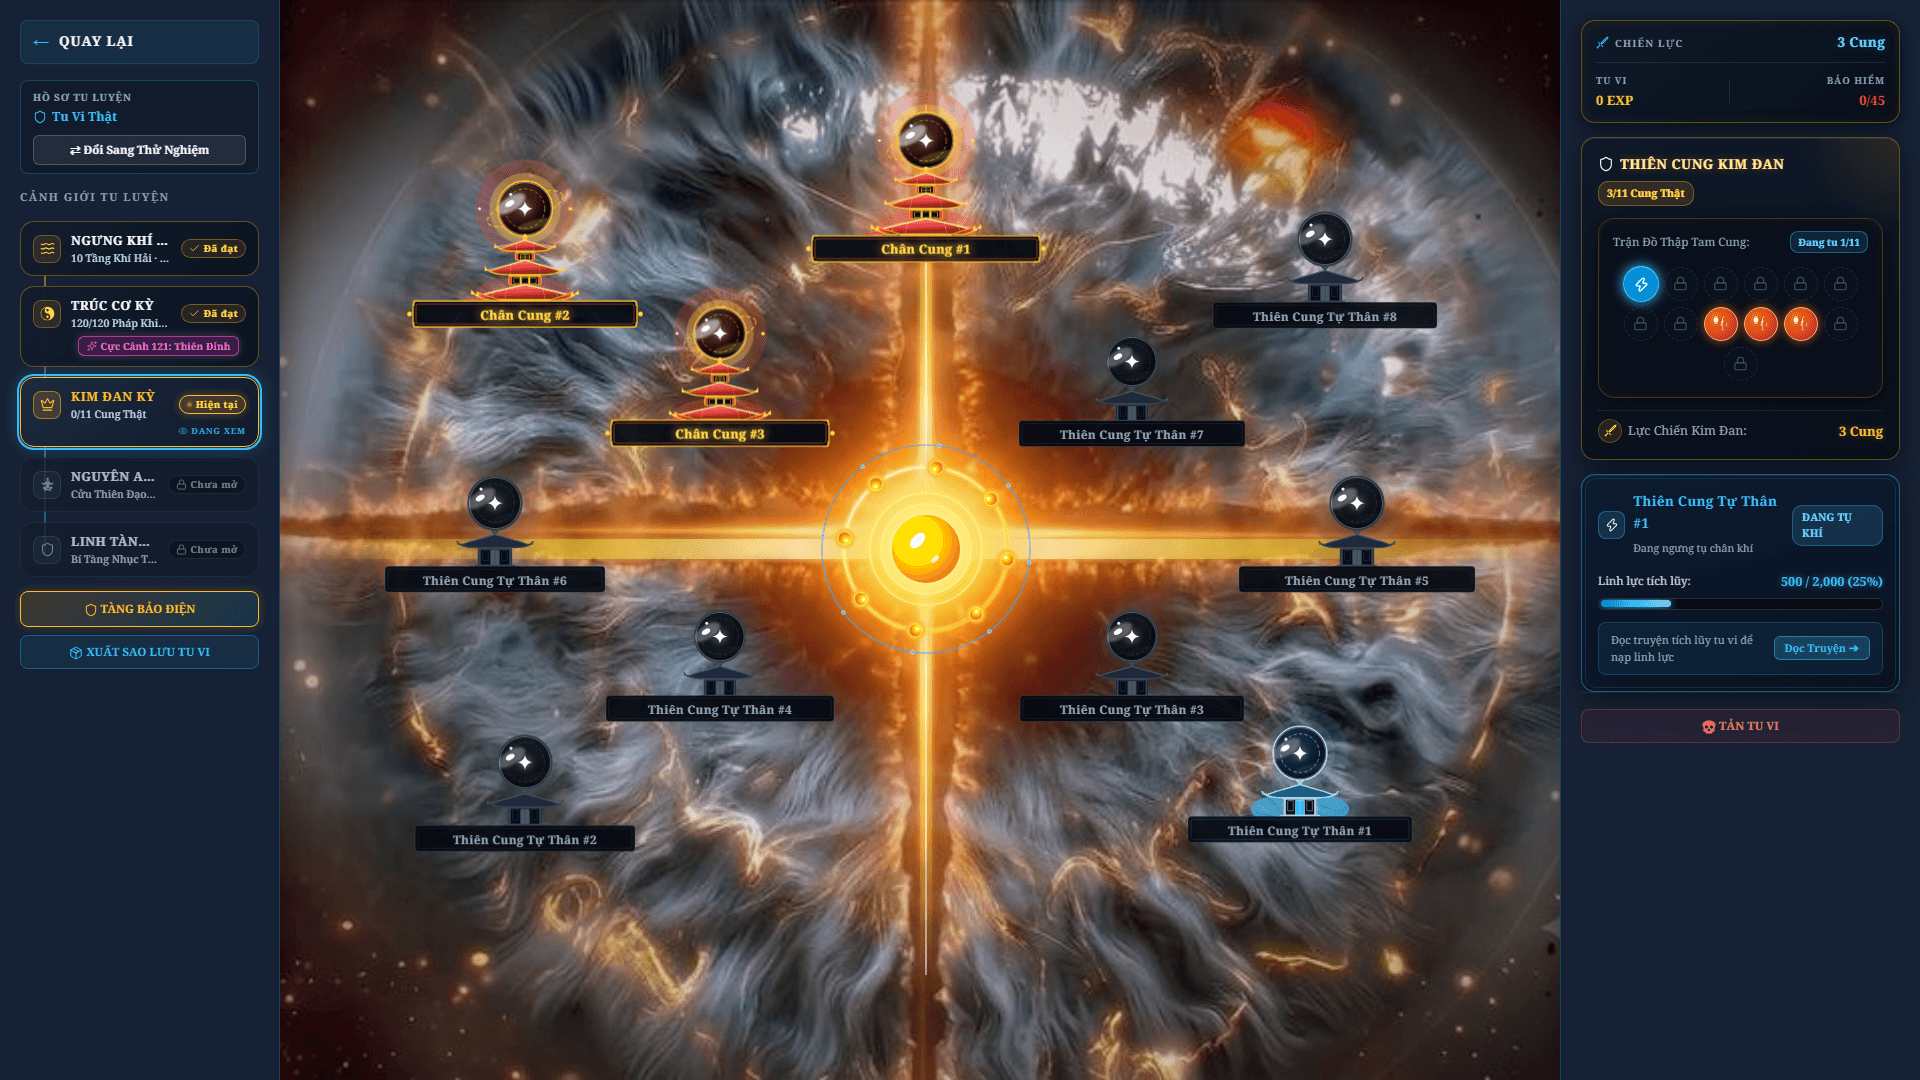
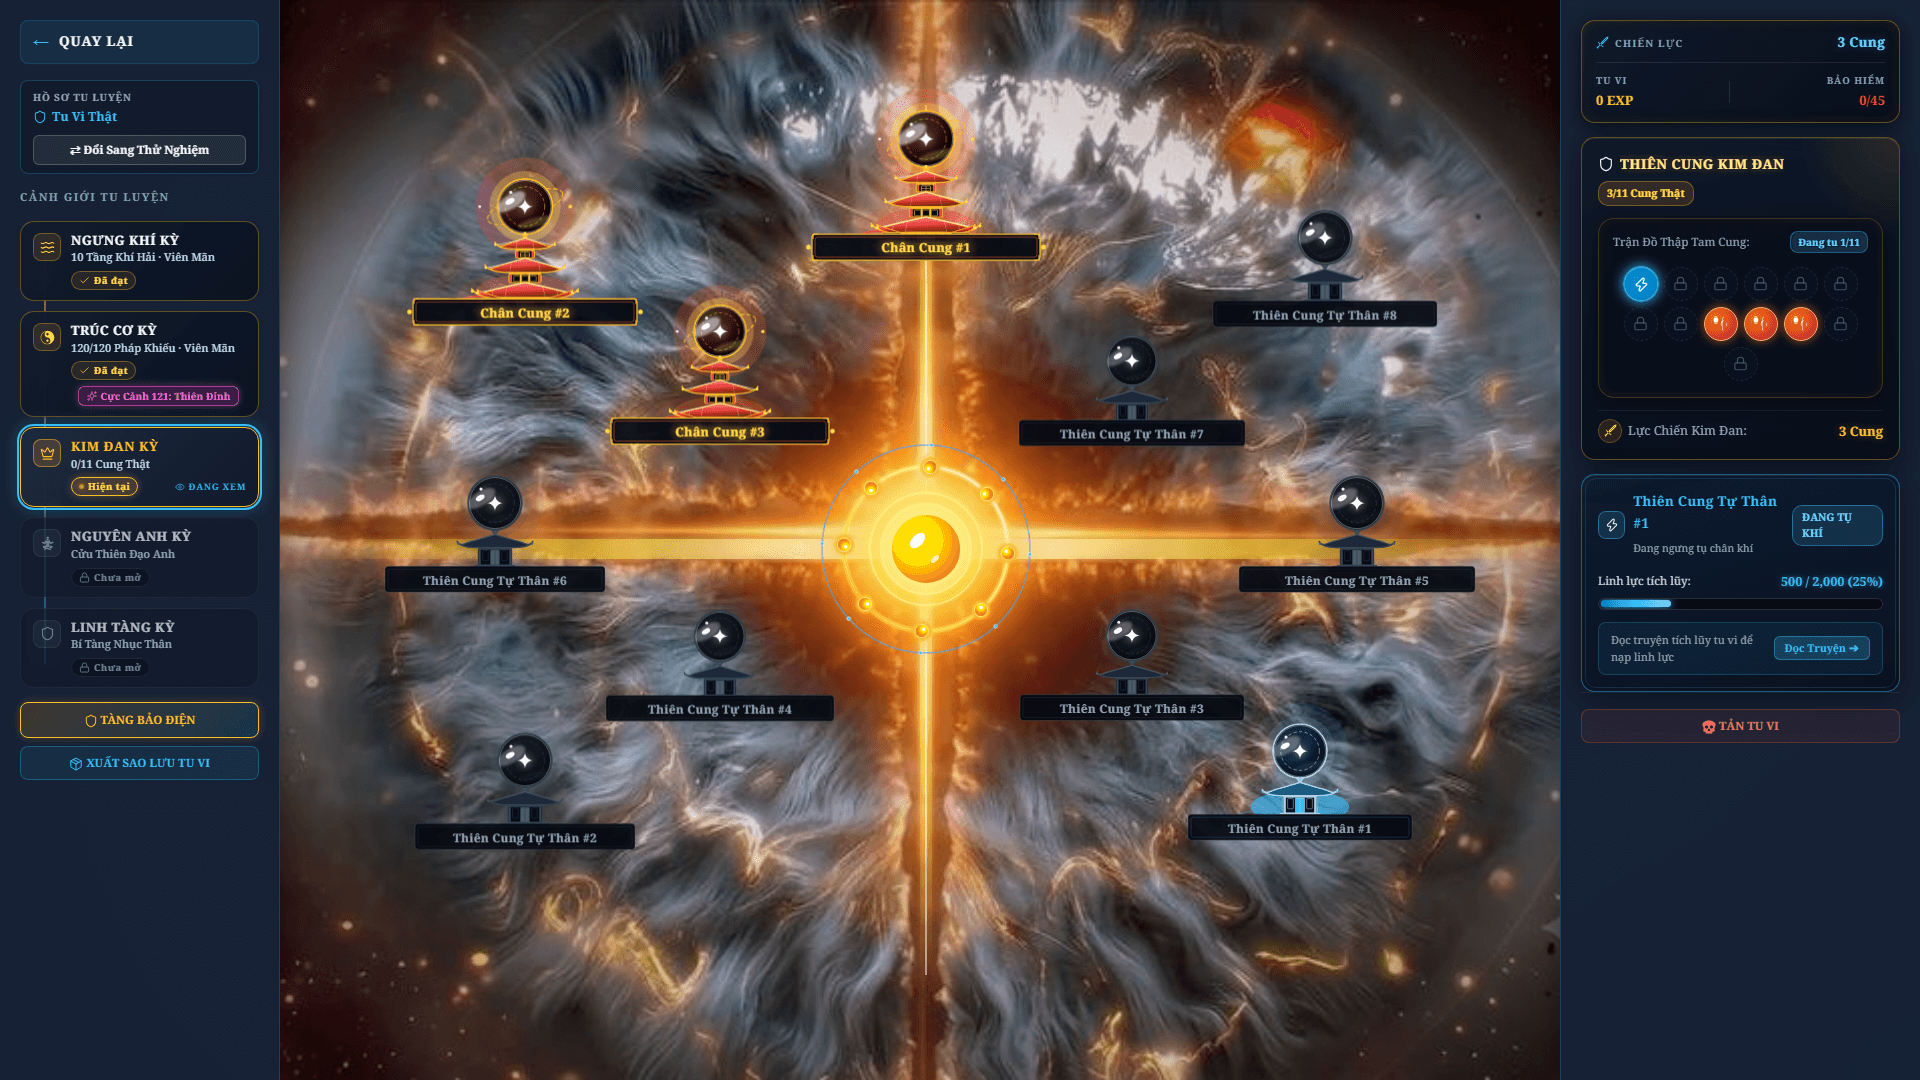
fix(cultivation): stepper cards never truncate realm names

diff --git a/src/components/cultivation/RealmTimeline.jsx b/src/components/cultivation/RealmTimeline.jsx
@@ -136,21 +136,32 @@ export default function RealmTimeline() {
                   {isCompleted ? details.completedText : isCurrent ? details.currentText : details.lockedText}
                 </div>
               </div>
+            </div>
+
+            {/* Status row below title: Left = status badge, Right = viewing tag */}
+            <div className="stepper-status-row">
               <div className="stepper-badge-wrap">
                 {isCurrent ? (
-                  <span className="stepper-badge badge-current">
+                  <span className="stepper-badge badge-current" aria-label="Cảnh giới hiện tại">
                     <span className="pulsing-glow-dot" /> Hiện tại
                   </span>
                 ) : isCompleted ? (
-                  <span className="stepper-badge badge-completed">
+                  <span className="stepper-badge badge-completed" aria-label="Đã hoàn thành">
                     <Icon name="check" size={11} /> Đã đạt
                   </span>
                 ) : (
-                  <span className="stepper-badge badge-locked">
+                  <span className="stepper-badge badge-locked" aria-label="Chưa mở">
                     <Icon name="lock" size={11} /> Chưa mở
                   </span>
                 )}
               </div>
+
+              {/* Viewing Indicator Tag */}
+              {isViewing && (
+                <div className="stepper-viewing-tag" aria-label="Đang xem cảnh giới này">
+                  <Icon name="eye" size={10} /> ĐANG XEM
+                </div>
+              )}
             </div>
 
             {/* Cực Cảnh 121 Badge inside Trúc Cơ */}
@@ -176,12 +187,7 @@ export default function RealmTimeline() {
               </div>
             )}
 
-            {/* Viewing Indicator Tag */}
-            {isViewing && (
-              <div className="stepper-viewing-tag">
-                <Icon name="eye" size={10} /> ĐANG XEM
-              </div>
-            )}
+
           </button>
         );
       })}

diff --git a/src/styles/cultivation-theme.css b/src/styles/cultivation-theme.css
@@ -415,7 +415,7 @@
 
 .stepper-card-header {
   display: flex;
-  align-items: center;
+  align-items: flex-start;
   gap: 10px;
   width: 100%;
 }
@@ -432,6 +432,7 @@
   border: 1px solid rgba(255, 255, 255, 0.1);
   color: #94a3b8;
   transition: all 0.2s ease;
+  margin-top: 1px;
 }
 
 .stepper-card.current .stepper-icon-wrap {
@@ -456,13 +457,14 @@
 
 .stepper-title {
   font-family: var(--font-serif, serif);
-  font-size: 12.5px;
+  font-size: 13px;
   font-weight: 800;
   letter-spacing: 0.5px;
-  white-space: nowrap;
-  overflow: hidden;
-  text-overflow: ellipsis;
+  white-space: normal;
+  overflow: visible;
+  line-height: 1.25;
   color: var(--text-main);
+  word-break: break-word;
 }
 
 .stepper-card.current .stepper-title {
@@ -470,11 +472,26 @@
 }
 
 .stepper-sub {
-  font-size: 10.5px;
+  font-size: 11px;
   color: var(--text-sub);
-  white-space: nowrap;
+  white-space: normal;
+  line-height: 1.35;
+  word-break: break-word;
+  display: -webkit-box;
+  -webkit-line-clamp: 2;
+  line-clamp: 2;
+  -webkit-box-orient: vertical;
   overflow: hidden;
-  text-overflow: ellipsis;
+}
+
+.stepper-status-row {
+  display: flex;
+  align-items: center;
+  justify-content: space-between;
+  width: 100%;
+  padding-left: 38px;
+  box-sizing: border-box;
+  gap: 6px;
 }
 
 .stepper-badge-wrap {
@@ -574,16 +591,15 @@
 }
 
 .stepper-viewing-tag {
-  align-self: flex-end;
-  font-size: 8.5px;
+  font-size: 9px;
   font-weight: 900;
   letter-spacing: 0.8px;
   color: #38bdf8;
   display: inline-flex;
   align-items: center;
-  gap: 3px;
-  opacity: 0.9;
-  margin-top: -2px;
+  gap: 4px;
+  opacity: 0.95;
+  white-space: nowrap;
 }
 
 /* Filter List */
